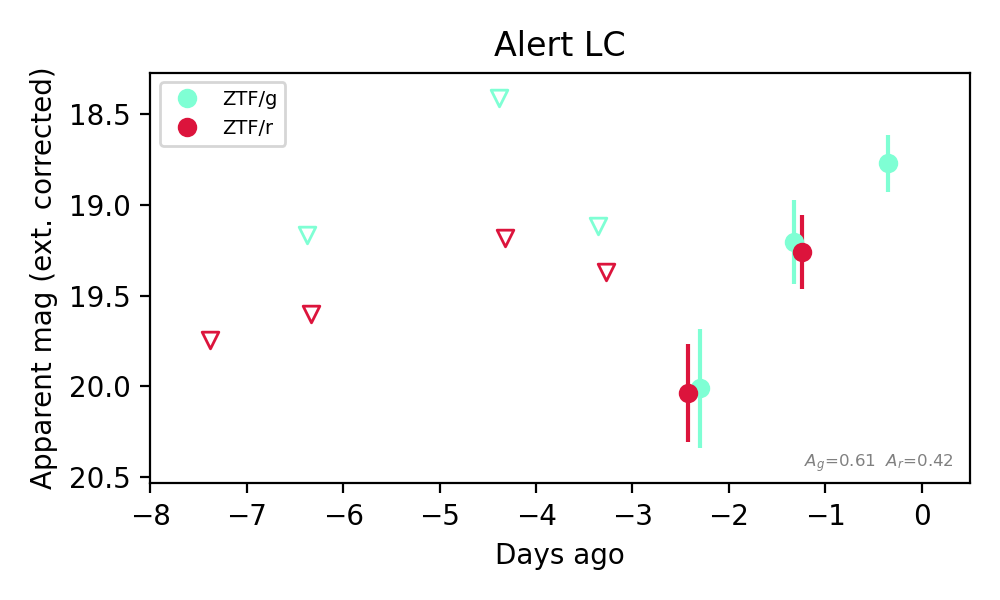
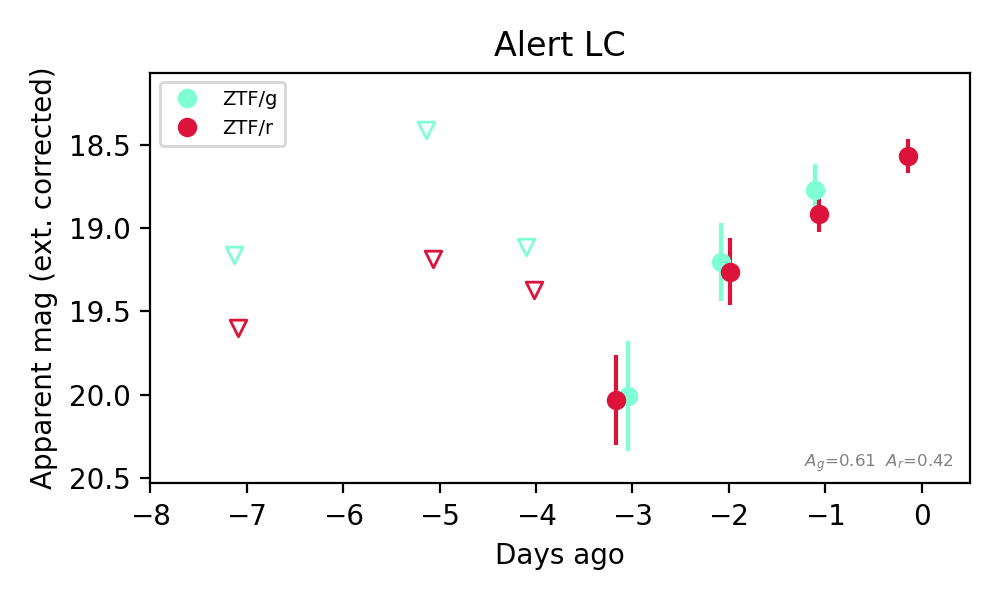
Update HTML from cron job on Wed Sep  2 07:02:34 AM EDT 2026

diff --git a/html/20260902_fastcand.html b/html/20260902_fastcand.html
@@ -1,0 +1,1 @@
+<!doctype html><html><head><title>SOURCE MARSHAL</title><style>                  * {                     box-sizing: border-box;                  }                /* Create two equal columns that floats next to each other */                .column {                         float: left;                         width: 50%;                         padding: 10px;                         #height: 220px; /* Should be removed. Only for demonstration */                }                /* Clear floats after the columns */                .row:after {                        content: "";                        display: table;                        clear: both;                }                /* Rounded corner definition */                #rcorners2 {                    border-radius: 15px;                    border: 2px solid #73AD21;                    padding: 15px;                     width: 80%;                }                table, th, td {                    border: 1px solid black;                    border-collapse: collapse;                }                th, td {                    padding: 5px;                }                th {                    text-align: right;                }                .boxed {                    width: 300px;                    border: 3px outset green;                    text-align: center;                    font-size: 20px;                    margin: 10px;                }                 </style></head><body><font size="5" color="green">Candidate List 20260902</font></br><font size="3" color="green">Last night &mdash; ZTF: 1,632 passed basic cuts (28 young) &middot; LSST: 0 passed basic cuts (0 young)</font></br></br><a href=20260901_fastcand.html target="_blank"><font size="3" color="green">Previous Day</font></a>&nbsp;&nbsp;&nbsp;&nbsp;<a href=20260903_fastcand.html target="_blank"><font size="3" color="green">Next Day</font></a>&nbsp;&nbsp;&nbsp;&nbsp;<br><br><font size="4" color="green"><a href="#sec1">Section 1: New Sources (age<1d)</a></font>&nbsp;&nbsp;&nbsp;&nbsp;<font size="4" color="green"><a href="#sec2">Section 2: Old (1-5d) sources observed last night</a></font></br><font size="1" color="white">placeholder</font></br><hr style="width:50%;text-align:left;margin-left:0"><br><div id="sec1"></div><div class="boxed">Section 1: New Afterglow/FBOT Cands Last Night (1)</div><div id="ZTF26abrsaid"></div>1. <a href="#ZTF26abrsaid"><b><font size="3">[ZTF] ZTF26abrsaid (Afterglow?)</font></b></a>&nbsp;&nbsp;&nbsp;&nbsp;<a href=#top>[Back to Top]</a>&nbsp;&nbsp;&nbsp;&nbsp;<a href=./ZTF26abrsaid_announcement.txt>[Share]</a>&nbsp;&nbsp;&nbsp;&nbsp;<a href=./ZTF26abrsaid_swifttoo.txt>[Trigger Swift]</a></br>&nbsp;&nbsp;&nbsp;&nbsp;[<a href="https://fritz.science/brokers?objectId=ZTF26abrsaid&survey=ZTF&ra=290.9904937&dec=0.6862853&radius=3" target="_blank">Fritz Alert</a>]&nbsp;&nbsp;&nbsp;&nbsp;[<a href="https://fritz.science/source/ZTF26abrsaid" target="_blank">Fritz Source</a>]&nbsp;&nbsp;&nbsp;&nbsp;[<a href="https://lasair-ztf.lsst.ac.uk/objects/ZTF26abrsaid/" target="_blank">Lasair</a>]</br>RA, Dec: 290.99049, 0.68629&nbsp;&nbsp;&nbsp;&nbsp;19h23m57.72s,  0d41m10.63s</br>Galactic (l, b): 37.27332, -6.91558&nbsp;&nbsp;&nbsp;&nbsp;ext(g-r) = 0.505</br></br><img src="./ZTF26abrsaid_triplet.png" height="200"><a href = http://ps1images.stsci.edu/cgi-bin/ps1cutouts?pos=290.990494+0.686285&filter=color&filter=g&filter=r&filter=i&filter=z&filter=y&filetypes=stack&auxiliary=data&size=240&output_size=240&verbose=0&autoscale=99.500000><img src="./ZTF26abrsaid_ps1.png" height="200"></a><a href = http://legacysurvey.org/viewer?ra=290.990494&dec=+0.686285&zoom=16&layer=ls-dr10><img src="ZTF26abrsaid_ls.png" height="200"></a></br><br><br>TESS: Sectors [54 81]<br><br><br><br><br>PS1: 0 sources in 3 arcsec</br><br>LegacySurvey: 0 sources in 3 arcsec</br><br><img src="ZTF26abrsaid_alert_lc.png" height="300"><br>Extinction-corrected gi color:<br>From alerts: 1.69 +/- 0.35 mag<br><b> Consistent with synchrotron, g-r>0!</b><br>Rise Rate:<br>i: 0.85 mag/day <br><br>Fade Rate:<br><br><br><br><br><br><div id="sec2"></div><div class="boxed">Section 2: Older Sources Observed Last Night (4)</div><div id="ZTF26abqwffp"></div>0. <a href="#ZTF26abramlb"><b><font size="3">[ZTF] ZTF26abramlb (FBOT?)</font></b></a> <span style="color:#a0522d">[NED transient: PSO J011.2292+41.5531 (V*, 8.5&#8243;) &mdash; reported, not trusted]</span>&nbsp;&nbsp;&nbsp;&nbsp;<a href=#top>[Back to Top]</a>&nbsp;&nbsp;&nbsp;&nbsp;<a href=./ZTF26abramlb_announcement.txt>[Share]</a>&nbsp;&nbsp;&nbsp;&nbsp;<a href=./ZTF26abramlb_swifttoo.txt>[Trigger Swift]</a></br>&nbsp;&nbsp;&nbsp;&nbsp;[<a href="https://fritz.science/brokers?objectId=ZTF26abramlb&survey=ZTF&ra=11.2260742&dec=41.5529251&radius=3" target="_blank">Fritz Alert</a>]&nbsp;&nbsp;&nbsp;&nbsp;[<a href="https://fritz.science/source/ZTF26abramlb" target="_blank">Fritz Source</a>]&nbsp;&nbsp;&nbsp;&nbsp;[<a href="https://lasair-ztf.lsst.ac.uk/objects/ZTF26abramlb/" target="_blank">Lasair</a>]</br>RA, Dec: 11.22607, 41.55293&nbsp;&nbsp;&nbsp;&nbsp; 0h44m54.26s, 41d33m10.53s</br>Galactic (l, b): 121.62, -21.30218&nbsp;&nbsp;&nbsp;&nbsp;ext(g-r) = 0.488</br></br><img src="./ZTF26abramlb_triplet.png" height="200"><a href = http://ps1images.stsci.edu/cgi-bin/ps1cutouts?pos=11.226074+41.552925&filter=color&filter=g&filter=r&filter=i&filter=z&filter=y&filetypes=stack&auxiliary=data&size=240&output_size=240&verbose=0&autoscale=99.500000><img src="./ZTF26abramlb_ps1.png" height="200"></a><a href = http://legacysurvey.org/viewer?ra=11.226074&dec=+41.552925&zoom=16&layer=ls-dr10><img src="ZTF26abramlb_ls.png" height="200"></a></br><br><br>TESS: Sectors [17 57 84]<br><br><br><br><br><b>PS1: 1 source in 3 arcsec</b>&nbsp;&nbsp;&nbsp;&nbsp;Closest: d = 1.09 arcsec&nbsp;&nbsp;&nbsp;&nbsp;photoz=0.16+/-0.03&nbsp;&nbsp;&nbsp;&nbsp;<b>peak abs mag = -25.37</b><br>LegacySurvey: 0 sources in 3 arcsec</br><br><img src="ZTF26abramlb_alert_lc.png" height="300"><br>Extinction-corrected gr color:<br>From alerts: -0.7 +/- 0.04 mag<br><br>Rise Rate:<br>g: 1.2 mag/day <br>r: 0.87 mag/day <br><br>Fade Rate:<br><br><br><div id="ZTF26abramlb"></div>1. <a href="#ZTF26abrmdnv"><b><font size="3">[ZTF] ZTF26abrmdnv (Afterglow?FBOT?)</font></b></a>&nbsp;&nbsp;&nbsp;&nbsp;<a href=#top>[Back to Top]</a>&nbsp;&nbsp;&nbsp;&nbsp;<a href=./ZTF26abrmdnv_announcement.txt>[Share]</a>&nbsp;&nbsp;&nbsp;&nbsp;<a href=./ZTF26abrmdnv_swifttoo.txt>[Trigger Swift]</a></br>&nbsp;&nbsp;&nbsp;&nbsp;[<a href="https://fritz.science/brokers?objectId=ZTF26abrmdnv&survey=ZTF&ra=357.1565981&dec=50.423146349999996&radius=3" target="_blank">Fritz Alert</a>]&nbsp;&nbsp;&nbsp;&nbsp;[<a href="https://fritz.science/source/ZTF26abrmdnv" target="_blank">Fritz Source</a>]&nbsp;&nbsp;&nbsp;&nbsp;[<a href="https://lasair-ztf.lsst.ac.uk/objects/ZTF26abrmdnv/" target="_blank">Lasair</a>]</br>RA, Dec: 357.1566, 50.42315&nbsp;&nbsp;&nbsp;&nbsp;23h48m37.58s, 50d25m23.33s</br>Galactic (l, b): 112.80744, -11.20976&nbsp;&nbsp;&nbsp;&nbsp;ext(g-r) = 0.196</br></br><img src="./ZTF26abrmdnv_triplet.png" height="200"><a href = http://ps1images.stsci.edu/cgi-bin/ps1cutouts?pos=357.156598+50.423146&filter=color&filter=g&filter=r&filter=i&filter=z&filter=y&filetypes=stack&auxiliary=data&size=240&output_size=240&verbose=0&autoscale=99.500000><img src="./ZTF26abrmdnv_ps1.png" height="200"></a><a href = http://legacysurvey.org/viewer?ra=357.156598&dec=+50.423146&zoom=16&layer=ls-dr10><img src="ZTF26abrmdnv_ls.png" height="200"></a></br><br><br>TESS: Sectors [17 24 57 84]<br><br><br><br><br><b>PS1: 1 source in 3 arcsec</b>&nbsp;&nbsp;&nbsp;&nbsp;Closest: d = 7.58 arcsec&nbsp;&nbsp;&nbsp;&nbsp;photoz=0.09+/-0.02&nbsp;&nbsp;&nbsp;&nbsp;<b>peak abs mag = -19.59</b><br>LegacySurvey: 0 sources in 3 arcsec</br><br><img src="ZTF26abrmdnv_alert_lc.png" height="300"><br>Extinction-corrected gr color:<br>From alerts: -0.14 +/- 0.19 mag<br><b> Consistent with synchrotron, g-r>0!</b><br>Rise Rate:<br>g: 0.59 mag/day <br>r: 0.44 mag/day <br><br>Fade Rate:<br><br><br><div id="ZTF26abrbslg"></div>2. <a href="#ZTF26abrpjdl"><b><font size="3">[ZTF] ZTF26abrpjdl (Afterglow?)</font></b></a>&nbsp;&nbsp;&nbsp;&nbsp;<a href=#top>[Back to Top]</a>&nbsp;&nbsp;&nbsp;&nbsp;<a href=./ZTF26abrpjdl_announcement.txt>[Share]</a>&nbsp;&nbsp;&nbsp;&nbsp;<a href=./ZTF26abrpjdl_swifttoo.txt>[Trigger Swift]</a></br>&nbsp;&nbsp;&nbsp;&nbsp;[<a href="https://fritz.science/brokers?objectId=ZTF26abrpjdl&survey=ZTF&ra=320.11244&dec=2.1782153&radius=3" target="_blank">Fritz Alert</a>]&nbsp;&nbsp;&nbsp;&nbsp;[<a href="https://fritz.science/source/ZTF26abrpjdl" target="_blank">Fritz Source</a>]&nbsp;&nbsp;&nbsp;&nbsp;[<a href="https://lasair-ztf.lsst.ac.uk/objects/ZTF26abrpjdl/" target="_blank">Lasair</a>]</br>RA, Dec: 320.11244, 2.17822&nbsp;&nbsp;&nbsp;&nbsp;21h20m26.99s,  2d10m41.58s</br>Galactic (l, b): 54.20305, -31.40075&nbsp;&nbsp;&nbsp;&nbsp;ext(g-r) = 0.064</br></br><img src="./ZTF26abrpjdl_triplet.png" height="200"><a href = http://ps1images.stsci.edu/cgi-bin/ps1cutouts?pos=320.112440+2.178215&filter=color&filter=g&filter=r&filter=i&filter=z&filter=y&filetypes=stack&auxiliary=data&size=240&output_size=240&verbose=0&autoscale=99.500000><img src="./ZTF26abrpjdl_ps1.png" height="200"></a><a href = http://legacysurvey.org/viewer?ra=320.112440&dec=+2.178215&zoom=16&layer=ls-dr10><img src="ZTF26abrpjdl_ls.png" height="200"></a></br><br><br>TESS: Sectors [55 82]<br>SDSS (<15 kpc):Found SDSS phot-z: z=0.10; <b>peak abs mag = -19.29</b><br><br><br><br>PS1: 0 sources in 3 arcsec</br><br><b>LegacySurvey: 1 sources in 3 arcsec</b>&nbsp;&nbsp;&nbsp;&nbsp;Closest: d = 2.83 arcsec, 322.0 deg (east of north)</br>&nbsp;&nbsp;&nbsp;&nbsp;photoz=0.07 (68&#37; bounds 0.05, 0.11),                         type=REX&nbsp;&nbsp;&nbsp;&nbsp;<b>peak abs mag (ext. corrected) = -18.62 (68&#37; bounds -17.59, -19.47)</b><br><img src="ZTF26abrpjdl_alert_lc.png" height="300"><br>Extinction-corrected gr color:<br>From alerts: 0.12 +/- 0.2 mag<br>Extinction-corrected gi color:<br>From alerts: -0.63 +/- 0.36 mag<br>Extinction-corrected ri color:<br>From alerts: -0.75 +/- 0.35 mag<br><b> Consistent with synchrotron, g-r>0!</b><br>Rise Rate:<br>g: 0.32 mag/day <br>r: 0.71 mag/day <br><br>Fade Rate:<br><br><br><div id="ZTF26abrcsgb"></div>3. <a href="#ZTF26abrshyo"><b><font size="3">[ZTF] ZTF26abrshyo (Afterglow?)</font></b></a>&nbsp;&nbsp;&nbsp;&nbsp;<a href=#top>[Back to Top]</a>&nbsp;&nbsp;&nbsp;&nbsp;<a href=./ZTF26abrshyo_announcement.txt>[Share]</a>&nbsp;&nbsp;&nbsp;&nbsp;<a href=./ZTF26abrshyo_swifttoo.txt>[Trigger Swift]</a></br>&nbsp;&nbsp;&nbsp;&nbsp;[<a href="https://fritz.science/brokers?objectId=ZTF26abrshyo&survey=ZTF&ra=284.6482172&dec=-9.4692924&radius=3" target="_blank">Fritz Alert</a>]&nbsp;&nbsp;&nbsp;&nbsp;[<a href="https://fritz.science/source/ZTF26abrshyo" target="_blank">Fritz Source</a>]&nbsp;&nbsp;&nbsp;&nbsp;[<a href="https://lasair-ztf.lsst.ac.uk/objects/ZTF26abrshyo/" target="_blank">Lasair</a>]</br>RA, Dec: 284.64822, -9.46929&nbsp;&nbsp;&nbsp;&nbsp;18h58m35.57s, -9d-28m-9.45s</br>Galactic (l, b): 25.28429, -5.87853&nbsp;&nbsp;&nbsp;&nbsp;ext(g-r) = 0.357</br></br><img src="./ZTF26abrshyo_triplet.png" height="200"><a href = http://ps1images.stsci.edu/cgi-bin/ps1cutouts?pos=284.648217-9.469292&filter=color&filter=g&filter=r&filter=i&filter=z&filter=y&filetypes=stack&auxiliary=data&size=240&output_size=240&verbose=0&autoscale=99.500000><img src="./ZTF26abrshyo_ps1.png" height="200"></a><a href = http://legacysurvey.org/viewer?ra=284.648217&dec=-9.469292&zoom=16&layer=ls-dr10><img src="ZTF26abrshyo_ls.png" height="200"></a></br><br><br>TESS: Sectors 80<br><br><br><br><br>PS1: 0 sources in 3 arcsec</br><br>LegacySurvey: 0 sources in 3 arcsec</br><br><img src="ZTF26abrshyo_alert_lc.png" height="300"><br>Extinction-corrected gr color:<br>From alerts: -0.02 +/- 0.18 mag<br><b> Consistent with synchrotron, g-r>0!</b><br>Rise Rate:<br>r: 1.31 mag/day <br><br>Fade Rate:<br><br><br><br>
